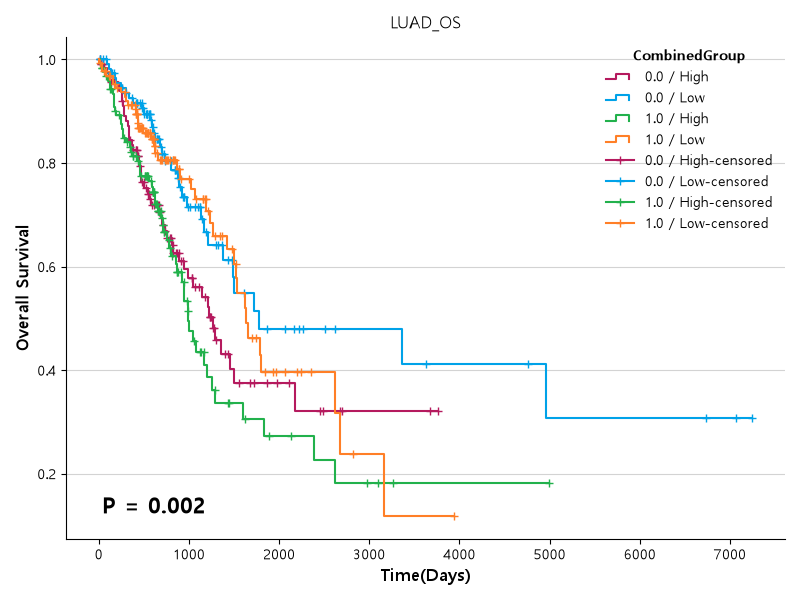
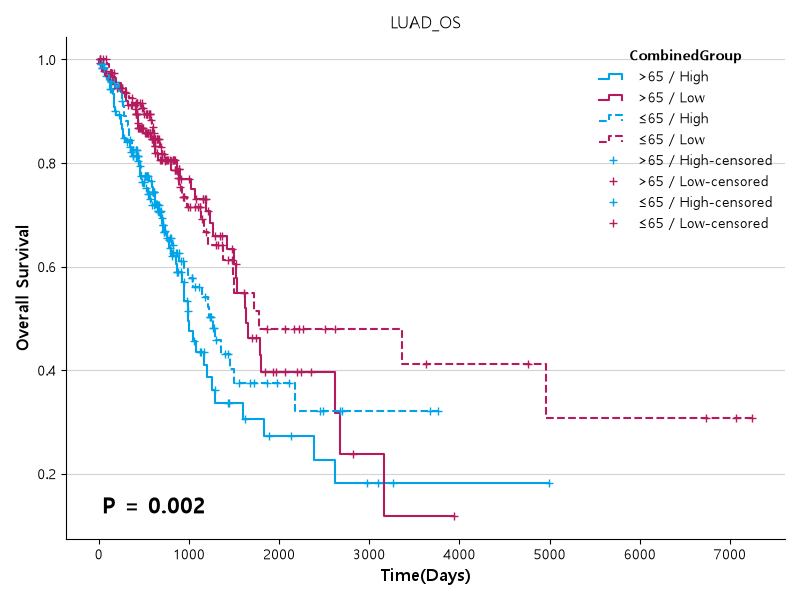
샤갈

diff --git a/signature_score_analysis.py b/signature_score_analysis.py
@@ -263,6 +263,9 @@ def analyze_kaplan_meier(df, mode, save_dir, group_col='SignatureGroup', file_pr
     
     plot_group_col = group_col
     if sub_group_col and sub_group_col in df_km.columns:
+        if sub_group_col == "ageG":
+            df_km.loc[df_km[sub_group_col] == 1.0, sub_group_col] = ">65"
+            df_km.loc[df_km[sub_group_col] == 0.0, sub_group_col] = "≤65"
         df_km[sub_group_col] = df_km[sub_group_col].astype(str).str.strip()
         na_strings = ['not reported', '[not available]', 'unknown', 'na', 'n/a', '', 'none', 'nan']
         df_km = df_km[~df_km[sub_group_col].str.lower().isin(na_strings)]
@@ -284,11 +287,22 @@ def analyze_kaplan_meier(df, mode, save_dir, group_col='SignatureGroup', file_pr
     kmf = KaplanMeierFitter()
     groups = sorted(df_km[plot_group_col].unique())
             
-    if set(groups) == {'High', 'Low'}:
-        color_map = {'High': '#00a2e8', 'Low': '#b51a5e'}
+    # --- [추가된 기능] 서브그룹 선(Style) & 메인그룹 색상(Color) 분리 로직 ---
+    base_color_map = {'High': '#00a2e8', 'Low': '#b51a5e'}
+    line_styles = ['-', '--', ':', '-.']
+    
+    if sub_group_col and sub_group_col in df_km.columns:
+        subgroups = sorted(df_km[sub_group_col].dropna().unique())
+        linestyle_map = {sg: line_styles[i % len(line_styles)] for i, sg in enumerate(subgroups)}
     else:
-        palette = ['#b51a5e', '#00a2e8', '#22b14c', '#ff7f27', '#9932cc', '#8b4513']
-        color_map = {g: palette[i % len(palette)] for i, g in enumerate(groups)}
+        linestyle_map = {}
+        
+    def get_style(group_name):
+        if " / " in group_name:
+            sg, bg = group_name.split(" / ")
+            return base_color_map.get(bg, 'black'), linestyle_map.get(sg, '-')
+        return base_color_map.get(group_name, 'black'), '-'
+    # ----------------------------------------------------------------------
     
     import matplotlib.lines as mlines
     from matplotlib.legend_handler import HandlerLine2D
@@ -297,7 +311,7 @@ def analyze_kaplan_meier(df, mode, save_dir, group_col='SignatureGroup', file_pr
         def create_artists(self, legend, orig_handle, xdescent, ydescent, width, height, fontsize, trans):
             xdata = [0, width*0.35, width*0.35, width*0.85, width*0.85]
             ydata = [height*0.2, height*0.2, height*0.8, height*0.8, height*0.2]
-            line = mlines.Line2D(xdata, ydata, color=orig_handle.get_color(), lw=1.5)
+            line = mlines.Line2D(xdata, ydata, color=orig_handle.get_color(), linestyle=orig_handle.get_linestyle(), lw=1.5)
             line.set_transform(trans)
             return [line]
 
@@ -310,10 +324,10 @@ def analyze_kaplan_meier(df, mode, save_dir, group_col='SignatureGroup', file_pr
         time = df_km.loc[mask, 'OS.time'].dropna()
         event = df_km.loc[mask, 'OS'].dropna()
         if len(time) > 0:
-            color = color_map[group]
+            c, ls = get_style(group)
             kmf.fit(time, event_observed=event)
-            kmf.plot_survival_function(ax=ax_os, ci_show=False, color=color,
-                                    show_censors=True, censor_styles={'marker': '+', 'mew': 1, 'ms': 6, 'mec': color})
+            kmf.plot_survival_function(ax=ax_os, ci_show=False, color=c, linestyle=ls,
+                                    show_censors=True, censor_styles={'marker': '+', 'mew': 1, 'ms': 6, 'mec': c})
             
     ax_os.set_title(f'{mode}_OS')
     ax_os.set_xlabel('Time(Days)', fontweight='bold', fontsize=12)
@@ -330,10 +344,12 @@ def analyze_kaplan_meier(df, mode, save_dir, group_col='SignatureGroup', file_pr
     handles_os = []
     labels_os = []
     for group in groups:
-        handles_os.append(StepLine2D([0], [0], color=color_map[group]))
+        c, ls = get_style(group)
+        handles_os.append(StepLine2D([0], [0], color=c, linestyle=ls))
         labels_os.append(group)
     for group in groups:
-        handles_os.append(mlines.Line2D([], [], color=color_map[group], marker='+', linestyle='-', lw=1.5, mew=1, ms=6))
+        c, ls = get_style(group)
+        handles_os.append(mlines.Line2D([], [], color=c, marker='+', linestyle='None', lw=1.5, mew=1, ms=6))
         labels_os.append(f'{group}-censored')
             
     if len(groups) > 1:
@@ -387,10 +403,10 @@ def analyze_kaplan_meier(df, mode, save_dir, group_col='SignatureGroup', file_pr
                 time = df_rfs.loc[mask, 'RFS.time'].dropna()
                 event = df_rfs.loc[mask, 'RFS'].dropna()
                 if len(time) > 0:
-                    color = color_map[group]
+                    c, ls = get_style(group)
                     kmf.fit(time, event_observed=event)
-                    kmf.plot_survival_function(ax=ax_rfs, ci_show=False, color=color,
-                                            show_censors=True, censor_styles={'marker': '+', 'mew': 1, 'ms': 6, 'mec': color})
+                    kmf.plot_survival_function(ax=ax_rfs, ci_show=False, color=c, linestyle=ls,
+                                            show_censors=True, censor_styles={'marker': '+', 'mew': 1, 'ms': 6, 'mec': c})
                     
             ax_rfs.set_title(f'{mode}_RFS')
             ax_rfs.set_xlabel('Time(Days)', fontweight='bold', fontsize=12)
@@ -407,10 +423,12 @@ def analyze_kaplan_meier(df, mode, save_dir, group_col='SignatureGroup', file_pr
             handles_rfs = []
             labels_rfs = []
             for group in groups:
-                handles_rfs.append(StepLine2D([0], [0], color=color_map[group]))
+                c, ls = get_style(group)
+                handles_rfs.append(StepLine2D([0], [0], color=c, linestyle=ls))
                 labels_rfs.append(group)
             for group in groups:
-                handles_rfs.append(mlines.Line2D([], [], color=color_map[group], marker='+', linestyle='-', lw=1.5, mew=1, ms=6))
+                c, ls = get_style(group)
+                handles_rfs.append(mlines.Line2D([], [], color=c, marker='+', linestyle='None', lw=1.5, mew=1, ms=6))
                 labels_rfs.append(f'{group}-censored')
                     
             if len(groups) > 1:
@@ -635,7 +653,7 @@ if __name__ == "__main__":
             file_prefix=CUSTOM_FILE_PREFIX,
             sub_group_col=KM_SUB_GROUP
         )
-        
+
         cox_categorical = [group_col_name, 'gender', 'pathologic_stage']
         cox_continuous = [age_col, 'number_pack_years_smoked'] + gene_vars
         
